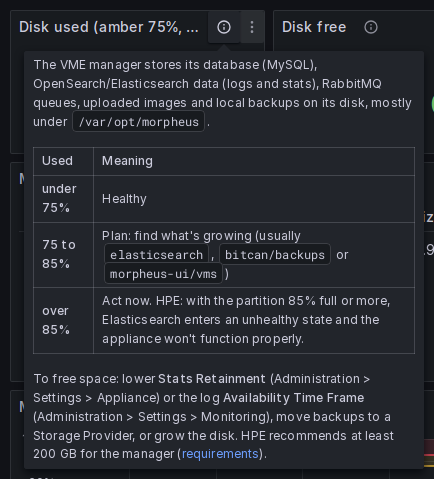
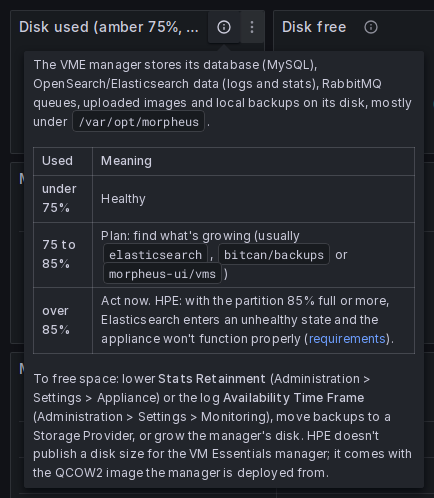
Manager sizing against both VM Essentials and Enterprise guides
- VME health: "Manager size: Essentials and Enterprise" replaces
  "Manager size vs HPE recommendation". It gives a result for each
  guide: the VM Essentials manager profile it matches (Small = 2 vCPUs,
  12 GB; Medium/Large unpublished) and whether it meets the Morpheus
  Enterprise appliance requirements (4 cores, 16 GB, 200 GB).
- Manager disk guidance no longer quotes the Enterprise 200 GB figure.
- Docs, README and changelog (0.4.6 unreleased) updated; manager
  screenshots refreshed.
- screenshots: blur again and recheck when panels redraw (overview
  treemaps restored names and blocked the run).

Claude-Session: https://claude.ai/code/session_01NqpuQ6ftuMkb2TLBd4iRV5

diff --git a/tools/build_dashboards.py b/tools/build_dashboards.py
@@ -142,6 +142,8 @@ HPE_ALARMS = HPE_DOCS + "infrastructure/clusters/hvm/alarms.rst"
 HPE_CAPACITY = HPE_DOCS + "infrastructure/clusters/hvm/capacity_planning.rst"
 HPE_MONITORING = HPE_DOCS + "infrastructure/clusters/hvm/monitoring.rst"
 HPE_REQUIREMENTS = HPE_DOCS + "getting_started/requirements/requirements.rst"
+HPE_INSTALLER = HPE_DOCS + "getting_started/installation/singleNode/hpe_installer.rst"
+HPE_MAXIMUMS = HPE_DOCS + "infrastructure/clusters/hvm/maximums.rst"
 
 
 def _steps(amber, red):
@@ -278,11 +280,10 @@ RabbitMQ queues, uploaded images and local backups on its disk, mostly under `/v
 |---|---|
 | **under 75%** | Healthy |
 | **75 to 85%** | Plan: find what's growing (usually `elasticsearch`, `bitcan/backups` or `morpheus-ui/vms`) |
-| **over 85%** | Act now. HPE: with the partition 85% full or more, Elasticsearch enters an unhealthy state and the appliance won't function properly. |
+| **over 85%** | Act now. HPE: with the partition 85% full or more, Elasticsearch enters an unhealthy state and the appliance won't function properly ([requirements]({HPE_REQUIREMENTS})). |
 
 To free space: lower **Stats Retainment** (Administration > Settings > Appliance) or the log **Availability Time Frame**
-(Administration > Settings > Monitoring), move backups to a Storage Provider, or grow the disk. HPE recommends at
-least 200 GB for the manager ([requirements]({HPE_REQUIREMENTS}))."""
+(Administration > Settings > Monitoring), move backups to a Storage Provider, or grow the manager's disk. HPE doesn't publish a disk size for the VM Essentials manager; it comes with the QCOW2 image the manager is deployed from."""
 
 # days until a manager filesystem is full, from the last 7 days of free-space samples
 def mgr_days_to_full(path_sql):
@@ -321,20 +322,45 @@ Each host keeps 4 GB for itself (OS, cluster services, agent, libvirt). VME trea
 HPE's rule: never allocate more than (N-1)/N of cluster memory, e.g. keep 33% free on 3 hosts
 ([capacity planning]({HPE_CAPACITY}))."""
 
-MGR_SIZING_DESC = f"""The manager's resources compared with HPE's recommendation for an all-in-one appliance:
-4 CPU cores, 16 GB memory (8 GB minimum) and 200 GB storage ([requirements]({HPE_REQUIREMENTS}))."""
+MGR_SIZING_DESC = f"""How this manager compares with both HPE sizing guides, each with its own result.
+
+**VM Essentials** (applies to a VME manager): the HPE Morpheus Manager Installer and `hvmcli deploy` create the manager
+from the VME QCOW2 image with a sizing profile: **Small = 12 GB RAM, 2 vCPUs**; **Medium** (the `hvmcli` default) and
+**Large** are bigger, but HPE doesn't publish their values or a manager disk size ([installer]({HPE_INSTALLER})).
+HPE publishes no per-manager object limits and asks for a workload-specific sizing review before large deployments
+([maximums]({HPE_MAXIMUMS})).
+
+**Morpheus Enterprise** (for reference, e.g. before moving to an Enterprise licence): the appliance requirements are
+**16 GB RAM, 4 cores, 200 GB disk** ([requirements]({HPE_REQUIREMENTS})).
+
+Memory allows 1 GB for what the OS doesn't report. Sustained CPU pressure, high JVM memory or swap use on this
+dashboard are the signs to move up a profile."""
 MGR_SIZING_SQL = """
     WITH m AS (SELECT DISTINCT ON (metric) metric, value FROM metrics
                WHERE entity_type = 'appliance' AND metric IN ('cpu.processorCount', 'memory.systemMemory', 'storage.total')
-                 AND time > now() - INTERVAL '1 hour' ORDER BY metric, time DESC)
-    SELECT r.resource AS "Resource", r.have AS "Manager", r.want AS "HPE recommends",
-           CASE WHEN r.ok THEN 'meets' ELSE 'below' END AS "Status"
-    FROM (SELECT 1 AS o, 'CPU cores' AS resource, value::int::text AS have, '4' AS want, value >= 4 AS ok
-            FROM m WHERE metric = 'cpu.processorCount'
-          UNION ALL SELECT 2, 'Memory', pg_size_pretty(value::bigint), '16 GB', value >= 15.5 * 2^30
-            FROM m WHERE metric = 'memory.systemMemory'
-          UNION ALL SELECT 3, 'Storage', pg_size_pretty(value::bigint), '200 GB', value >= 195e9
-            FROM m WHERE metric = 'storage.total') r ORDER BY r.o"""
+                 AND time > now() - INTERVAL '1 hour' ORDER BY metric, time DESC),
+         c AS (SELECT (SELECT value FROM m WHERE metric = 'cpu.processorCount') AS cores,
+                      (SELECT value FROM m WHERE metric = 'memory.systemMemory') AS mem,
+                      (SELECT value FROM m WHERE metric = 'storage.total') AS disk)
+    SELECT r.resource AS "Item", r.have AS "Manager has",
+           r.ess AS "Essentials needs", r.ess_res AS "Essentials result",
+           r.ent AS "Enterprise needs", r.ent_res AS "Enterprise result"
+    FROM (SELECT 1 AS o, 'Overall' AS resource, cores::int || ' vCPUs, ' || pg_size_pretty(mem::bigint) AS have,
+                 'Small profile: 2 vCPUs, 12 GB' AS ess,
+                 CASE WHEN cores < 2 OR mem < 11 * 2^30 THEN 'below Small'
+                      WHEN cores <= 2 AND mem < 13 * 2^30 THEN 'matches Small'
+                      ELSE 'Medium or Large' END AS ess_res,
+                 '4 cores, 16 GB, 200 GB' AS ent,
+                 CASE WHEN cores >= 4 AND mem >= 15 * 2^30 AND disk >= 200e9 THEN 'meets' ELSE 'below' END AS ent_res FROM c
+          UNION ALL SELECT 2, 'CPU cores', cores::int::text, '2',
+                 CASE WHEN cores >= 2 THEN 'meets' ELSE 'below' END, '4',
+                 CASE WHEN cores >= 4 THEN 'meets' ELSE 'below' END FROM c WHERE cores IS NOT NULL
+          UNION ALL SELECT 3, 'Memory', pg_size_pretty(mem::bigint), '12 GB',
+                 CASE WHEN mem >= 11 * 2^30 THEN 'meets' ELSE 'below' END, '16 GB',
+                 CASE WHEN mem >= 15 * 2^30 THEN 'meets' ELSE 'below' END FROM c WHERE mem IS NOT NULL
+          UNION ALL SELECT 4, 'Disk', pg_size_pretty(disk::bigint), 'not published', 'n/a', '200 GB',
+                 CASE WHEN disk >= 200e9 THEN 'meets' ELSE 'below' END FROM c WHERE disk IS NOT NULL
+         ) r ORDER BY r.o"""
 
 SERVICES_SQL = """
     SELECT initcap(k) AS "Service", COALESCE(a.health -> k ->> 'status', 'n/a') AS "Status"
@@ -800,9 +826,13 @@ def health():
                desc="Steady or growing swap use on the manager means it needs more memory."), 4, 4)
     b.add(table("Manager filesystems (reported by VME)", MGR_FS_SQL,
         [unit_override("Size", "bytes"), unit_override("Used", "bytes"), unit_override("Free", "bytes"),
-         unit_override("Days to full", "d"), gauge_cell("Used %", MGR_DISK_STEPS)], desc=MGR_DISK_GUIDE), 12, 6)
-    b.add(table("Manager size vs HPE recommendation", MGR_SIZING_SQL,
-        [colored("Status", {"meets": "green", "below": "orange"})], desc=MGR_SIZING_DESC), 12, 6)
+         unit_override("Days to full", "d"), gauge_cell("Used %", MGR_DISK_STEPS)], desc=MGR_DISK_GUIDE), 24, 5)
+    result_colors = {"meets": "green", "below": "orange", "below Small": "orange", "matches Small": "blue",
+                     "Medium or Large": "blue", "n/a": "transparent"}
+    sizing = table("Manager size: Essentials and Enterprise", MGR_SIZING_SQL,
+        [colored("Essentials result", result_colors), colored("Enterprise result", result_colors)], desc=MGR_SIZING_DESC)
+    sizing["fieldConfig"]["defaults"]["custom"]["filterable"] = False  # four fixed rows: filters only cost header space
+    b.add(sizing, 24, 6)
     b.add(timeseries("Manager disk used % (amber 75, red 85)", f"""
         SELECT $__timeGroupAlias(time, $__interval), substr(metric, 12, length(metric) - 19) AS metric, avg(value) AS value
         FROM metrics WHERE $__timeFilter(time) AND entity_type = 'appliance' AND metric LIKE 'storage.fs.%.percent'

diff --git a/tools/screenshots/shoot.py b/tools/screenshots/shoot.py
@@ -52,7 +52,7 @@ TOOLTIPS = [
     ("tip-memory-alarm", "vme-hosts", "Memory usage"),
     ("tip-n-plus-1", "vme-hosts", "N+1 failover capacity per cluster"),
     ("tip-manager-disk", "vme-health", "Disk used (amber 75%, red 85%)"),
-    ("tip-manager-size", "vme-health", "Manager size vs HPE recommendation"),
+    ("tip-manager-size", "vme-health", "Manager size: Essentials and Enterprise"),
     ("tip-vcpu-wait", "vme-hvm-bottlenecks", "Top 10 VMs by vCPU wait % (healthy < 5%, act > 10%)"),
     ("tip-host-filesystems", "vme-hvm-hosts", "Host filesystems (node_exporter)"),
 ]
@@ -176,8 +176,14 @@ def open_dashboard(page, uid, extra):
     page.set_viewport_size({"width": WIDTH, "height": 6000})  # tall, so lazy panels all load
     page.goto(f"{BASE}/d/{uid}?orgId=1&kiosk&theme=dark{rng}", wait_until="domcontentloaded")
     settle(page)
-    n = page.evaluate(BLUR_JS, [TERMS, PATTERNS])
-    leaks = page.evaluate(LEAK_JS, [TERMS, PATTERNS])
+    # some panels (e.g. treemaps) redraw after loading and bring names back: blur again, then recheck
+    n = 0
+    for _ in range(4):
+        n += page.evaluate(BLUR_JS, [TERMS, PATTERNS])
+        time.sleep(2)
+        leaks = page.evaluate(LEAK_JS, [TERMS, PATTERNS])
+        if not leaks:
+            break
     if leaks:
         raise SystemExit(f"{uid}: unblurred sensitive text found, not saving: {leaks}")
     bottom = page.evaluate("Math.max(...[...document.querySelectorAll('.react-grid-item')]"

diff --git a/docs/DASHBOARDS.md b/docs/DASHBOARDS.md
@@ -132,28 +132,27 @@ To free space:
 * Lower **Stats Retainment** (30, 60 or 90 days) in **Administration → Settings → Appliance** ([Appliance settings](https://github.com/HewlettPackard/morpheus-docs/blob/dev-9.1/administration/settings/appliance.rst)).
 * Shorten the log retention, set by **Availability Time Frame** in **Administration → Settings → Monitoring** ([Logs](https://github.com/HewlettPackard/morpheus-docs/blob/dev-9.1/administration/settings/logs.rst)).
 * Send backups to a Storage Provider instead of the manager's disk.
-* Grow the disk. HPE recommends at least 200 GB.
+* Grow the disk. HPE doesn't publish a disk size for the VM Essentials manager; it comes with the QCOW2 image the manager is deployed from.
 
 ### Manager size
 
-The **Manager size vs HPE recommendation** table compares the manager's CPU cores, memory and storage with HPE's recommendation for an all-in-one appliance: 4 cores, 16 GB memory (8 GB minimum) and 200 GB storage ([requirements](https://github.com/HewlettPackard/morpheus-docs/blob/dev-9.1/getting_started/requirements/requirements.rst)). An undersized manager shows up as sustained CPU pressure, high JVM memory or swap use on this dashboard.
+The **Manager size: Essentials and Enterprise** table compares the manager with both HPE sizing guides and gives a result for each.
 
-![Manager size vs HPE recommendation](images/tip-manager-size.png)
+**VM Essentials** applies to a VME manager. The HPE Morpheus Manager Installer and `hvmcli deploy` create the manager from the VME QCOW2 image with one of three sizing profiles ([installer](https://github.com/HewlettPackard/morpheus-docs/blob/dev-9.1/getting_started/installation/singleNode/hpe_installer.rst), [hvmcli deploy](https://github.com/HewlettPackard/morpheus-docs/blob/dev-9.1/tools/hvmcli/deploy.rst)):
 
-| Panel | Meaning |
-|---|---|
-| Alarms | Active alarms and those cleared in the last 7 days |
-| Active alarms | Active and unacknowledged alarm counts over time |
-| **Manager resources** row | Disk used % (fullest filesystem), disk free, days until disk full (7-day trend), system memory, JVM heap, swap used, a filesystem table (mount, device, size, used, free, used %, days to full), the manager's size against HPE's recommendation, and disk used % over time. From `/api/health`, so it works without any agent on the manager. |
-| Services | Database, Elasticsearch, RabbitMQ, CPU, memory, storage status from `/api/health` |
-| Manager CPU and memory | Manager VM resources over time |
-| **Manager VM detail** row (optional) | CPU, memory, pressure (PSI), every filesystem and disk latency from node_exporter inside the manager VM. See [EXPORTERS](EXPORTERS.md#the-vme-manager). |
-| Database connections | Used, peak used, busy |
-| RabbitMQ | Messages waiting across the manager's queues, busy and error queues. A growing backlog means the manager is falling behind. |
-| Elasticsearch | Heap and RAM % per node |
-| All manager metrics (regex) | Every numeric field collected from `/api/health`. Filter with the regex box. |
-| Last run per task, Task duration, Recent errors | Collector health |
-| Database size | Size of the metrics hypertable and the whole database |
+| Profile | vCPUs | Memory | Notes |
+|---|---|---|---|
+| Small | 2 | 12 GB | |
+| Medium | not published | not published | `hvmcli` default |
+| Large | not published | not published | |
+
+HPE says to choose the profile by expected managed hosts, VMs, total objects, enabled integrations and workload. It publishes no per-manager object limits and asks for a workload-specific sizing review before large deployments ([VME maximums](https://github.com/HewlettPackard/morpheus-docs/blob/dev-9.1/infrastructure/clusters/hvm/maximums.rst)). No manager disk size is published for VME. For each guide the table shows what it **needs** and the **result** for this manager. The **Essentials result** on the Overall row says *below Small*, *matches Small* or *Medium or Large*; anything above Small can't be placed more precisely.
+
+**Morpheus Enterprise** appliance requirements are 4 cores, 16 GB memory and 200 GB disk ([requirements](https://github.com/HewlettPackard/morpheus-docs/blob/dev-9.1/getting_started/requirements/requirements.rst)). The **Enterprise result** column shows whether the manager meets them, for reference, for example before moving to an Enterprise licence. A VME manager at the Small profile shows *below*, which is expected.
+
+Memory checks allow 1 GB for memory the OS doesn't report. Matching a profile doesn't prove the manager has enough capacity: sustained CPU pressure, high JVM memory or swap use on this dashboard are the signs to move up a profile.
+
+![Manager size: Essentials and Enterprise](images/tip-manager-size.png)
 
 ## VME Data Export
 

diff --git a/README.md b/README.md
@@ -41,9 +41,9 @@ The dashboards don't just show numbers; they say what's normal and what to do. T
 |---|---|
 | ![CPU ready panel with its guidance tooltip open](docs/images/tip-cpu-ready.png) | ![Manager disk tile with its guidance tooltip open](docs/images/tip-manager-disk.png) |
 
-| Is the manager sized as HPE recommends? | Can the cluster survive losing a host? |
+| How does the manager compare with the Essentials and Enterprise sizing? | Can the cluster survive losing a host? |
 |---|---|
-| ![Manager size compared with HPE's recommendation](docs/images/manager-resources.png) | ![N+1 failover capacity with its tooltip open](docs/images/tip-n-plus-1.png) |
+| ![Manager size compared with the Essentials and Enterprise sizing](docs/images/manager-resources.png) | ![N+1 failover capacity with its tooltip open](docs/images/tip-n-plus-1.png) |
 
 The vCPU-wait view on the bottleneck dashboard measures the same contention as CPU ready, from the kernel. Its tooltip explains when to trust which:
 
@@ -210,7 +210,8 @@ HPE's documentation for Morpheus and VM Essentials is published at [HewlettPacka
 | Default alarm thresholds (CPU, memory, datastores) | [HVM alarms](https://github.com/HewlettPackard/morpheus-docs/blob/dev-9.1/infrastructure/clusters/hvm/alarms.rst) |
 | Healthy ranges for HVM hosts, clusters and storage | [HVM monitoring](https://github.com/HewlettPackard/morpheus-docs/blob/dev-9.1/infrastructure/clusters/hvm/monitoring.rst) |
 | N+1 failover, memory reservation, CPU overcommit ratios | [HVM capacity planning](https://github.com/HewlettPackard/morpheus-docs/blob/dev-9.1/infrastructure/clusters/hvm/capacity_planning.rst) |
-| Manager sizing, disk space, Elasticsearch at 85% | [Requirements](https://github.com/HewlettPackard/morpheus-docs/blob/dev-9.1/getting_started/requirements/requirements.rst) |
+| Manager sizing: Essentials profiles | [Manager installer](https://github.com/HewlettPackard/morpheus-docs/blob/dev-9.1/getting_started/installation/singleNode/hpe_installer.rst), [VME maximums](https://github.com/HewlettPackard/morpheus-docs/blob/dev-9.1/infrastructure/clusters/hvm/maximums.rst) |
+| Manager sizing: Enterprise appliance, disk space, Elasticsearch at 85% | [Requirements](https://github.com/HewlettPackard/morpheus-docs/blob/dev-9.1/getting_started/requirements/requirements.rst) |
 | Stats and log retention settings | [Appliance settings](https://github.com/HewlettPackard/morpheus-docs/blob/dev-9.1/administration/settings/appliance.rst), [Logs](https://github.com/HewlettPackard/morpheus-docs/blob/dev-9.1/administration/settings/logs.rst) |
 | Reader role permissions | [Role permissions](https://github.com/HewlettPackard/morpheus-docs/blob/dev-9.1/administration/roles/role_permissions.rst) |
 | API tokens and OAuth clients | [User settings → API access](https://github.com/HewlettPackard/morpheus-docs/blob/dev-9.1/administration/user_settings/user_settings.rst), [OAuth clients](https://github.com/HewlettPackard/morpheus-docs/blob/dev-9.1/administration/settings/clients.rst) |

diff --git a/CHANGELOG.md b/CHANGELOG.md
@@ -1,5 +1,9 @@
 # Changelog
 
+## 0.4.6 (unreleased)
+
+* **Manager sizing against both HPE guides.** The "Manager size: Essentials and Enterprise" panel (was "Manager size vs HPE recommendation") gives a result for each guide. **VM Essentials:** which VME manager profile the manager matches (Small is 12 GB RAM and 2 vCPUs; HPE doesn't publish Medium and Large values or a disk size). **Morpheus Enterprise:** whether it meets the appliance requirements (4 cores, 16 GB, 200 GB). Previously only the Enterprise figures were used, so a correctly sized VME manager showed as "below". The manager disk guidance drops the 200 GB figure, which applies to Enterprise only.
+
 ## 0.4.5 (2026-10-23)
 
 * VME-PLUGIN certificate guide: switching away from the built-in CA (remove its old root), getting the certificate to browser machines via the installer service, step 4 errors for untrusted certificates, name mismatch and browsing by IP, and a Removing step that matches the current certificate options.
